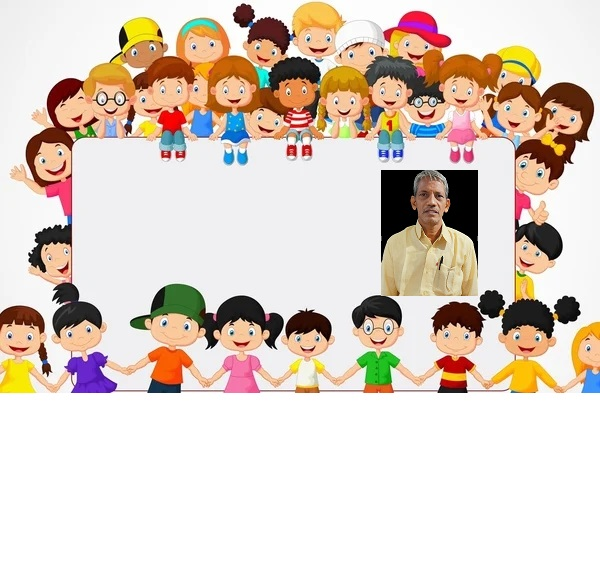
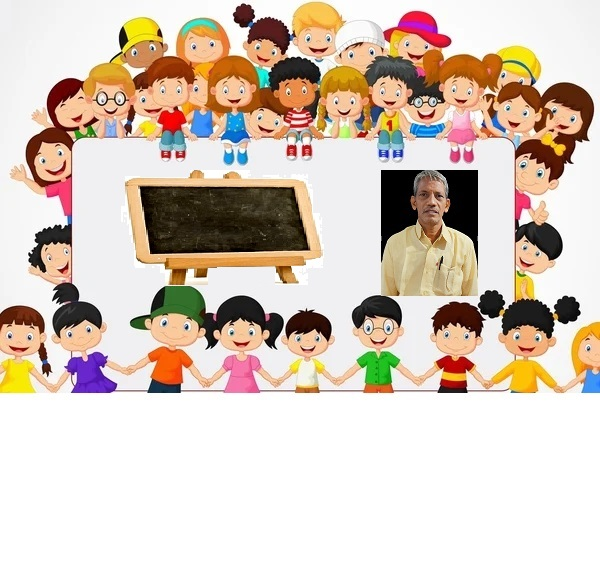
updated

Changed region(s): [[0.21, 0.302, 0.54, 0.5133]]

diff --git a/uma/myflask/Flask/templates/regform.html b/uma/myflask/Flask/templates/regform.html
@@ -55,7 +55,7 @@ li.dropdown {
 </style>
 <style>
   body {
-      background-image: url(/static/homepage2.jpg); background-repeat: no-repeat;background-size: cover;
+      background-image: url(/static/homepage3.jpg); background-repeat: no-repeat;background-size: cover;
   }
   </style>
   
@@ -70,10 +70,10 @@ li.dropdown {
       <a href="#">Gallry</a>
     </div>
   </li>
+  <li style="font-size: 20px;font-weight: bold;
+    color: #2d38be;"><a href="/transactions" >Register Here </a>
+    </li>
 </ul>
-<p style="position: absolute;bottom: 80px;right:25%;left:50%;font-size: 20px;
-font-weight: bold;
-color: #2d38be;"><a href="/transactions" >Click Here </a><br>to register</p>
 </body>
 </html>
 
